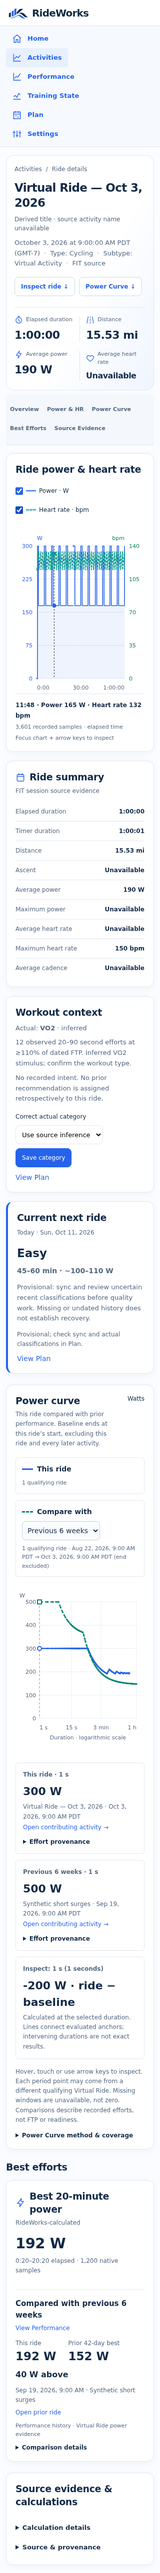
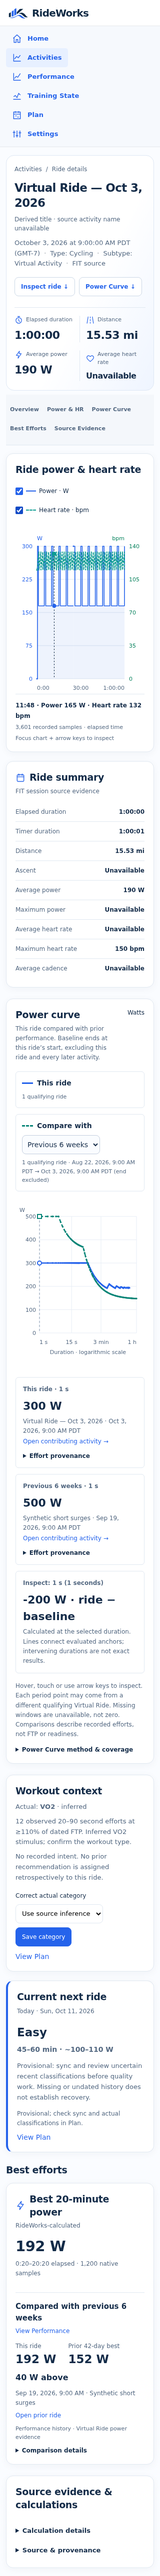
AR-UI-01: place Power Curve above workout and next ride context

diff --git a/rideworks/static/style.css b/rideworks/static/style.css
@@ -546,7 +546,8 @@ pre { overflow-x: auto; font-size: 13px; background: var(--background); padding:
 .activity-review-redesign .review-section-nav a:hover,
 .activity-review-redesign .review-section-nav a:focus-visible { color: var(--rw-blue); background: #eaf1ff; }
 .activity-review-redesign :is(#overview, #ride-chart-section, #power-curve-panel, #bests, #sources) { scroll-margin-top: 138px; }
-.activity-review-redesign .review-layout { grid-template-columns: minmax(0, 1.9fr) minmax(290px, .83fr); grid-template-areas: 'chart summary' 'context next'; gap: 18px; }
+.activity-review-redesign .review-layout { grid-template-columns: minmax(0, 1.9fr) minmax(290px, .83fr); grid-template-areas: 'chart summary'; gap: 18px; }
+.activity-review-redesign .review-context-layout { display: grid; grid-template-columns: minmax(0, 1.9fr) minmax(290px, .83fr); grid-template-areas: 'context next'; gap: 18px; margin: 22px 0; align-items: start; }
 .activity-review-redesign .review-main { grid-area: chart; }
 .activity-review-redesign .ride-summary { grid-area: summary; }
 .activity-review-redesign .activity-plan-context { grid-area: context; margin: 0; }
@@ -608,7 +609,8 @@ pre { overflow-x: auto; font-size: 13px; background: var(--background); padding:
 .activity-review-redesign .review-best-unavailable { padding: 18px 0; }
 @media (max-width: 1100px) {
   .activity-review-redesign { --rw-padding: 20px; }
-  .activity-review-redesign .review-layout { grid-template-columns: minmax(0, 1fr); grid-template-areas: 'chart' 'summary' 'context' 'next'; }
+  .activity-review-redesign .review-layout { grid-template-columns: minmax(0, 1fr); grid-template-areas: 'chart' 'summary'; }
+  .activity-review-redesign .review-context-layout { grid-template-columns: minmax(0, 1fr); grid-template-areas: 'context' 'next'; }
   .activity-review-redesign .review-hero { padding: 24px; }
   .activity-review-redesign .metric { padding-left: 12px; padding-right: 12px; }
   .activity-review-redesign .metric strong { font-size: 22px; }

diff --git a/tools/verify_planning_v2_browser.js b/tools/verify_planning_v2_browser.js
@@ -55,8 +55,8 @@ async (page) => {
   check(JSON.stringify(await next())===JSON.stringify(planned),'current Activity Review same live next');
   check(await page.locator('#review-next-heading').textContent()==='Next Recommended Ride','latest review label');
   check(await page.locator('.activity-plan-context').textContent().then(t=>t.includes('No recorded intent')),'intent not fabricated');
-  const placement=await page.locator('.next-recommended').evaluate(el=>({plan:el.getBoundingClientRect().bottom,curve:document.querySelector('#power-curve-panel')?.getBoundingClientRect().top}));
-  check(placement.curve && placement.plan<placement.curve,'next ride in overview before full-width curve');
+  const placement=await page.locator('.next-recommended').evaluate(el=>({plan:el.getBoundingClientRect().top,curve:document.querySelector('#power-curve-panel')?.getBoundingClientRect().bottom,bests:document.querySelector('#bests')?.getBoundingClientRect().top}));
+  check(placement.curve && placement.plan>placement.curve && placement.plan<placement.bests,'Owner order: Power Curve, current next ride, best efforts');
   await page.screenshot({path:'output/playwright/p501-v2-review-desktop.png'});
   await open('/activities/'+original.latest_hard.activity_id);
   check(await page.locator('#review-next-heading').textContent()==='Current next ride','historic review live current label');

diff --git a/tools/verify_activity_review_browser.js b/tools/verify_activity_review_browser.js
@@ -55,6 +55,12 @@ async (page) => {
       const curve = await page.locator('#power-curve-panel').boundingBox();
       const wrapper = await page.locator('.activity-review-redesign').boundingBox();
       check(Math.abs(curve.width-wrapper.width)<2,'Power Curve spans full content width');
+      const overview = await page.locator('.review-layout').boundingBox();
+      const context = await page.locator('.review-context-layout').boundingBox();
+      const bests = await page.locator('#bests').boundingBox();
+      check(overview.y+overview.height<=curve.y,'ride chart and summary first');
+      check(curve.y+curve.height<=context.y,'Power Curve before Workout Context and Current next ride');
+      check(context.y+context.height<=bests.y,'context cards before best efforts');
       check(await page.locator('.ride-summary dl').evaluateAll(nodes=>nodes.every(n=>getComputedStyle(n).display==='block')),'summary rows retain readable spacing at tablet widths');
       const source = await signals();
       if(source) {

diff --git a/rideworks/web.py b/rideworks/web.py
@@ -223,8 +223,9 @@ def activity_review_layout(title, *, identity, metrics, chart, summary, best, ev
 {identity}<div class="review-actions"><a href="#ride-chart-section">Inspect ride ↓</a><a class="curve-jump" href="#power-curve-panel">Power Curve ↓</a></div>{metrics}</section>
 <nav class="review-section-nav" aria-label="Ride detail sections"><a href="#overview">Overview</a><a href="#ride-chart-section">Power &amp; HR</a><a href="#power-curve-panel">Power Curve</a><a href="#bests">Best Efforts</a><a href="#sources">Source Evidence</a></nav>
 <div class="review-layout"><div class="review-main" id="ride-chart-section">{chart}</div>
-{summary}<!-- review-workout-context --><!-- review-current-next --></div>
+{summary}</div>
 <!-- review-power-curve -->
+<div class="review-context-layout"><!-- review-workout-context --><!-- review-current-next --></div>
 <section class="review-best-efforts" id="bests" aria-labelledby="bests-title"><h2 id="bests-title">Best efforts</h2>{best}</section>
 <section class="panel review-evidence" id="sources" aria-labelledby="sources-title"><h2 id="sources-title">Source evidence &amp; calculations</h2>{evidence}</section>
 {payload}</div>''')

diff --git a/tests/test_rideworks_activity_review.py b/tests/test_rideworks_activity_review.py
@@ -47,6 +47,9 @@ class ActivityReviewTests(unittest.TestCase):
         self.assertEqual(len(structure.ids),len(set(structure.ids)))
         self.assertTrue(set(structure.anchors).issubset(structure.ids))
         self.assertLess(html.index('id="ride-chart-section"'),html.index('id="power-curve-panel"'))
+        self.assertLess(html.index('id="power-curve-panel"'),html.index('activity-plan-context'))
+        self.assertLess(html.index('activity-plan-context'),html.index('id="review-next-heading"'))
+        self.assertLess(html.index('id="review-next-heading"'),html.index('id="bests"'))
         self.assertLess(html.index('id="power-curve-panel"'),html.index('id="bests"'))
         self.assertLess(html.index('id="bests"'),html.index('id="sources"'))
         self.assertLess(html.index('id="sources"'),html.index('<summary>Calculation details'))

diff --git a/tests/test_rideworks_planning.py b/tests/test_rideworks_planning.py
@@ -335,6 +335,7 @@ class StorePlanningTests(TestCase):
             self.assertIn('No recorded intent',review)
             self.assertIn('activity-plan-context',review)
             self.assertIn('Detailed RideWorks review unavailable',review)
-            self.assertLess(review.index('activity-plan-context'),review.index('id="power-curve-panel"'))
+            self.assertLess(review.index('id="power-curve-panel"'),review.index('activity-plan-context'))
+            self.assertLess(review.index('activity-plan-context'),review.index('id="bests"'))
             historic=app.get('/activities/'+self.identity+'?plan_tz=UTC')[2].decode()
             self.assertIn('Current next ride',historic)

diff --git a/reports/AR-UI-01/implementation.md b/reports/AR-UI-01/implementation.md
@@ -9,8 +9,8 @@ Owner-approved visual reference implemented in the real RideWorks Activity Revie
   thin/unsupported and outdoor modes. A coherent hero and four source-labelled
   metrics precede local section links, the ride chart and real companion cards.
 - The overview places the large chart alongside Ride Summary on desktop, followed
-  by Workout Context and Current Next Ride. These stack in the same reading order
-  on smaller screens. Classification correction retains its original save action,
+  by the full-width Power Curve, then Workout Context and Current Next Ride.
+  These stack in the same reading order on smaller screens. Classification correction retains its original save action,
   nonce, timezone and activity-return semantics; current next ride uses the live
   Plan and never invents a historical recommendation or confirmed race.
 - Ride Power/HR charts are 380 CSS px on desktop and 320 px on phones. Independent
@@ -40,8 +40,13 @@ production page. Actual FIT, API-rich and thin full-page captures were produced 
 1440, 1024, 768, 390 and 320 CSS px. Private titles and screenshots remain local.
 
 The reference's hero, pale gradient, blue/teal hierarchy, stat strip, section links,
-chart/summary arrangement, context row, full-width curve and bottom disclosures
-are retained. Adaptations follow available evidence:
+chart/summary arrangement, full-width curve, context row and bottom disclosures
+are retained. Adaptations follow available evidence and the Owner’s explicit follow-up:
+
+- **Owner section-order update (2026-10-11):** Power Curve now appears above
+  Workout Context and Current next ride on desktop and mobile. This supersedes
+  the reference’s placement of the context cards before the curve; sources,
+  calculations, controls and review gates are unchanged.
 
 - Real global shell remains unchanged, including its mobile navigation. Mobile
   local navigation sticks at the top after the global shell scrolls out of view.
@@ -76,10 +81,13 @@ These are scoped implementation patterns, not an authorization for other pages:
 ## Verification
 
 Final verification: **445 Python tests**, five focused source-mode tests,
-**26,343 Chromium checks** (14,058 synthetic / 9,786 private review checks;
+**26,463 Chromium checks** (14,127 synthetic / 9,837 private review checks;
 1,945 existing Power Curve, 510 Training State, 14 accepted-page/touch and
 30 unchanged-page geometry/style checks). Zero browser errors. Aggregates are
 recorded in `checks.json` and `preservation.json`. Five focused source-mode tests supplement the full suite.
+The Owner section-order follow-up reran the full Python suite, both private and
+synthetic review browser matrices, and the fixed-clock preservation comparison.
+The review matrix now checks the requested physical section order at every width.
 Browser checks cover section/link targets and scroll clearance, unique IDs,
 expanded-source wrapping, sample/curve readouts, controls, exact period membership,
 keyboard, actual Chromium touchscreen, save/return and reduced-motion contexts.

diff --git a/STATUS.md b/STATUS.md
@@ -2,10 +2,10 @@
 
 **Product:** RideWorks.
 **Current task:** AR-UI-01 — Owner-approved Activity Review visual redesign; `/AUTOTASK AR-UI-01` on 2026-10-11.
-**State:** ready_for_review — implementation and required verification complete; stopped at HARD — Analyst Gate 1. Not accepted.
+**State:** ready_for_review — Owner’s section-order follow-up implemented and verified; stopped at HARD — Analyst Gate 1. Not accepted.
 **Branch / PR:** `task/ar-ui-01-activity-review`; [draft PR #30](https://github.com/k14krug/rideworks/pull/30); [issue #29](https://github.com/k14krug/rideworks/issues/29).
-**Implemented:** Scoped hero/stat strip and section navigation, 380/320px interactive Power/HR chart with checked visibility controls, real compact context/next-ride/summary cards, full-width PC-01 curve, compact accepted best-20, complete grouped source/calculation disclosures. Thin/unsupported/empty modes remain explicit; unused curve plot collapses without hiding available baselines.
-**Verification:** 445 Python tests; 26,343 Chromium checks across synthetic/private modes, 1440/1024/768/390/320px, keyboard and actual touch. Fixed-clock equality for 27 review modes, Performance/Training State/Plan/Dashboard, all 26 store tables and 1,422 originals (including modification times), approved FTP/Elevate, integrity/FKs. Other pages' computed geometry/colors match accepted main. [Report](reports/AR-UI-01/implementation.md).
+**Implemented:** Scoped hero/stat strip and section navigation, 380/320px interactive Power/HR chart with checked visibility controls, ride chart/summary first, full-width PC-01 curve above Workout Context and Current next ride, compact accepted best-20, complete grouped source/calculation disclosures. Thin/unsupported/empty modes remain explicit; unused curve plot collapses without hiding available baselines.
+**Verification:** 445 Python tests; 26,463 Chromium checks across synthetic/private modes, 1440/1024/768/390/320px, keyboard and actual touch. Fixed-clock equality for 27 review modes, Performance/Training State/Plan/Dashboard, all 26 store tables and 1,422 originals (including modification times), approved FTP/Elevate, integrity/FKs. Other pages' computed geometry/colors match accepted main. [Report](reports/AR-UI-01/implementation.md).
 **Running review:** `http://127.0.0.1:8791/activities`; open real FIT, retained-stream API or thin rides. Disposable retained-source copy; original accepted store untouched. Private captures/routes remain ignored. Synthetic review runs at `http://127.0.0.1:8793/activities`.
 **Next action:** Analyst reviews code, real source-mode preservation, interaction and visual evidence at Gate 1. After explicit clearance, Owner reviews the running redesigned page at HARD — Owner Gate 2. PR remains draft; no acceptance/merge or next-page/Phase 6 work.
 **Accepted prior work:** Phases 1–5 v1 and PC-01 remain done. Phase 6 remains deferred.

diff --git a/TASKS.md b/TASKS.md
@@ -492,4 +492,6 @@ Phase 4 is now explicitly Owner-authorized. Phase 5 must not begin automatically
 
 **Controlling artifacts:** [AR-UI-01 approved design](docs/design/AR-UI-01-activity-review-redesign.md), [HTML concept](docs/mockups/activity-review-ui-concept.html), [implementation JIT](docs/tasks/AR-UI-01.md). Historical `activity-review.png` remains background, now superseded for the specific Ride Details layout by this approved concept.
 
+**Owner follow-up — 2026-10-11:** Power Curve appears above Workout Context and Current next ride. Implemented and verified across desktop/mobile on the existing draft PR; accepted data and Plan behavior are unchanged.
+
 **Execution and gates:** Start in Dex with `/TASK AR-UI-01` or `/AUTOTASK AR-UI-01` after refreshing `main`. Dex implements on a draft PR, checks native FIT, Strava API/retained stream, thin/unsupported and outdoor views, responsive desktop/320px mobile, keyboard/touch and preservation of PC-01/20-minute/Plan/evidence. **HARD — Analyst Gate 1** technical/UI review, then **HARD — Owner Gate 2** running visual acceptance. No merge/claim of completion before both. Phase 6 stays deferred.
